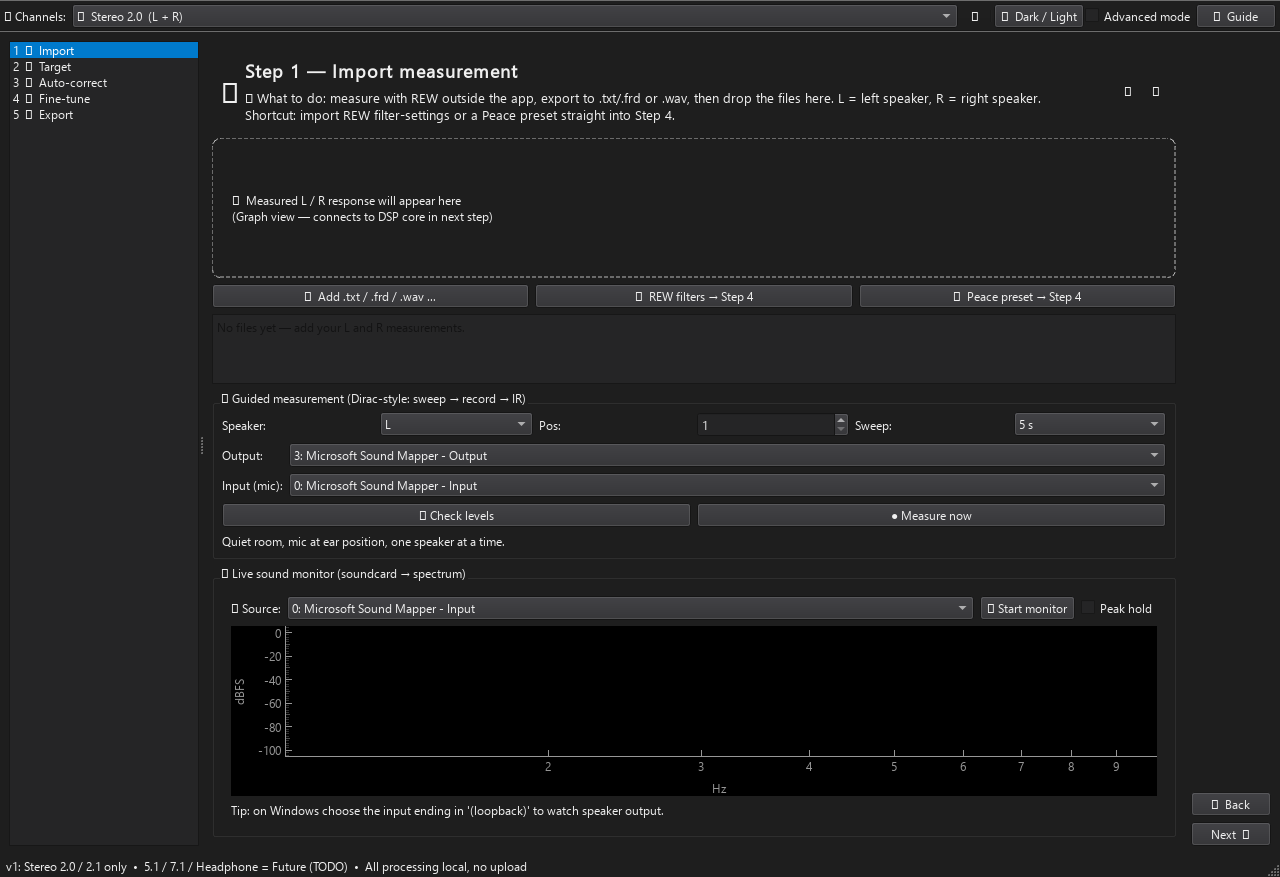
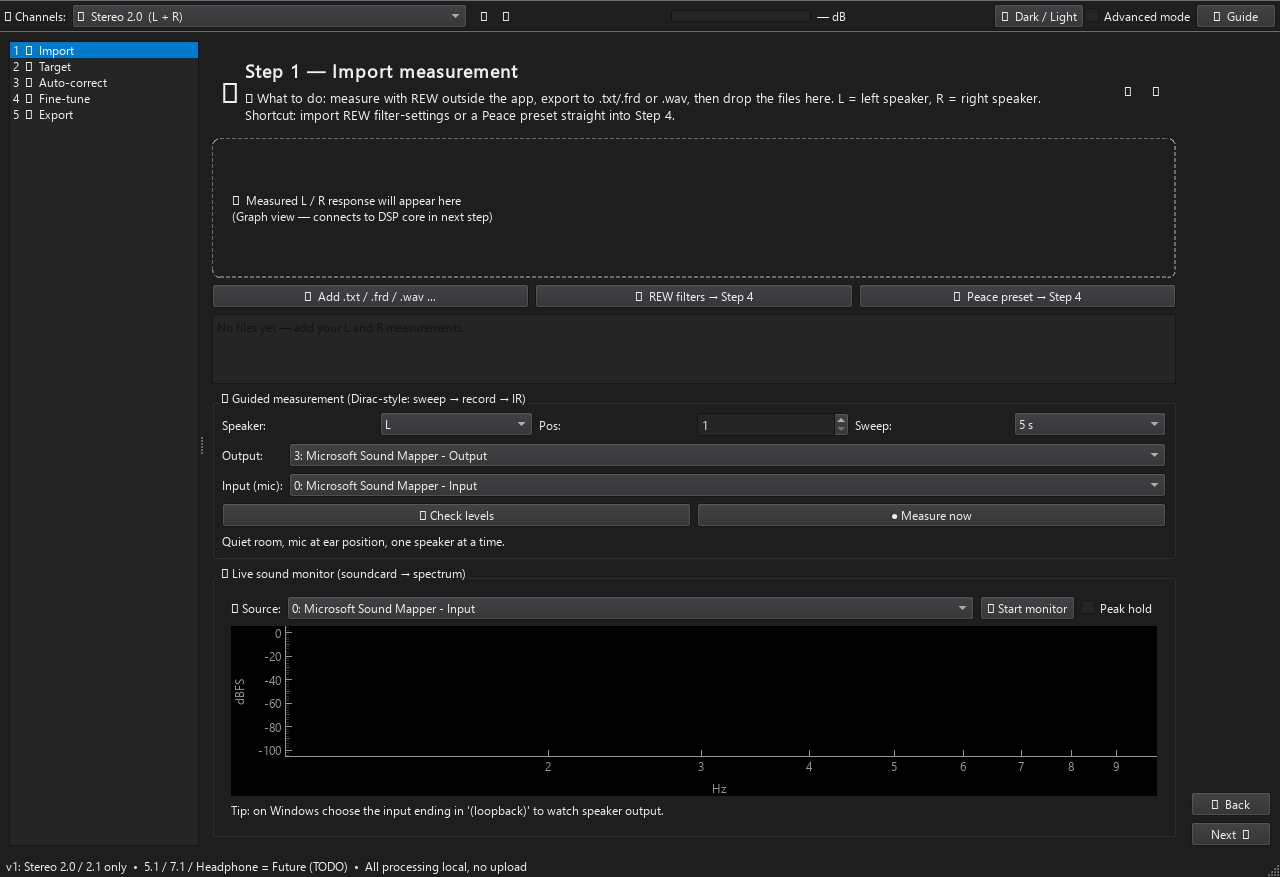
feat(meter): always-on Peace-style output meter in toolbar (session API, no mic)

Changed region(s): [[0.3438, 0.0, 0.75, 0.0308]]

diff --git a/src/harmo_dsp/io/meter.py b/src/harmo_dsp/io/meter.py
@@ -1,87 +1,91 @@
 """Output peak meter via Windows audio session API (no recording!).
 
-Uses IAudioMeterInformation on the default render endpoint: the OS hands us
-peak levels directly (like Peace's meters) — no microphone capture, no
-privacy issue, negligible CPU. Returns None when unavailable (headless CI).
+IAudioMeterInformation on the default render endpoint: OS hands us the
+peak directly (Peace-style meter) — no mic capture, negligible CPU.
+COM: the enumerator is cached process-lifetime; CoInitialize is NOT
+unbalanced against Qt (we keep it, we never CoUninitialize here).
+Returns None when unavailable (headless CI, non-Windows).
 """
 from __future__ import annotations
+
+_enum = None  # cached IMMDeviceEnumerator (process lifetime)
+
+_CLSID_MMDeviceEnumerator = "{BCDE0395-E52F-467C-8E3D-C4579291692E}"
+_IID_IMMDeviceEnumerator = "{A95664D2-9614-4F35-A746-DE513671B636}"
+_IID_IAudioMeterInformation = "{C02216F6-8C67-4B5B-9D00-D008E73E0064}"
+
+
+def _guid(s: str):
+    import uuid
+    return uuid.UUID(s)
+
+
+def _get_enum():
+    global _enum
+    if _enum is not None:
+        return _enum
+    import ctypes
+    ole32 = ctypes.OleDLL("ole32")
+    hr = ole32.CoInitializeEx(None, 0x2)  # APARTMENTFLAG; S_FALSE(1) ok if Qt did it
+    if hr not in (0, 1):
+        return None
+    B16 = ctypes.c_ubyte * 16
+
+    class _U(ctypes.Structure):
+        _fields_ = [("lpVtbl", ctypes.c_void_p)]
+
+    enum = ctypes.POINTER(_U)()
+    ok = ole32.CoCreateInstance(
+        B16.from_buffer_copy(_guid(_CLSID_MMDeviceEnumerator).bytes_le),
+        None, 23,
+        B16.from_buffer_copy(_guid(_IID_IMMDeviceEnumerator).bytes_le),
+        ctypes.byref(enum))
+    if ok != 0 or not enum:
+        return None
+    _enum = enum
+    return enum
 
 
 def get_output_peak() -> float | None:
     """Peak 0.0..1.0 of the default playback device, or None."""
     try:
         import ctypes
-        from ctypes import wintypes
-        import uuid
-    except Exception:
-        return None
-    try:
-        ole32 = ctypes.OleDLL("ole32")
-        if ole32.CoInitialize(None) not in (0, 1):
+        enum = _get_enum()
+        if enum is None:
+            return None
+        B16 = ctypes.c_ubyte * 16
+
+        class _U(ctypes.Structure):
+            _fields_ = [("lpVtbl", ctypes.c_void_p)]
+
+        vtbl = ctypes.cast(enum.contents.lpVtbl, ctypes.POINTER(ctypes.c_void_p))
+        # IMMDeviceEnumerator::GetDefaultAudioEndpoint(eRender=0, eConsole=0)
+        fn_def = ctypes.WINFUNCTYPE(ctypes.c_long, ctypes.c_void_p, ctypes.c_int,
+                                    ctypes.c_int, ctypes.POINTER(ctypes.c_void_p))(vtbl[4])
+        ep = ctypes.c_void_p()
+        if fn_def(enum, 0, 0, ctypes.byref(ep)) != 0 or not ep:
+            return None
+        vtbl2 = ctypes.cast(ep, ctypes.POINTER(ctypes.c_void_p))
+        # IMMDevice::Activate(IID_IAudioMeterInformation, CLSCTX_ALL, None, &m)
+        fn_act = ctypes.WINFUNCTYPE(ctypes.c_long, ctypes.c_void_p,
+                                    ctypes.POINTER(B16), ctypes.c_ulong,
+                                    ctypes.c_void_p, ctypes.POINTER(ctypes.c_void_p))(vtbl2[3])
+        iid = B16.from_buffer_copy(_guid(_IID_IAudioMeterInformation).bytes_le)
+        meter = ctypes.c_void_p()
+        if fn_act(ep, ctypes.byref(iid), 23, None, ctypes.byref(meter)) != 0 or not meter:
+            ctypes.WINFUNCTYPE(ctypes.c_ulong, ctypes.c_void_p)(vtbl2[2])(ep)  # Release ep
             return None
         try:
-            clsid = uuid.UUID("{BCDE0395-E52F-467C-8E3D-C4579291692E}")
-            iid_enum = uuid.UUID("{A95664D2-9614-4F35-A746-DE513671B636}")
-            iid_meter = uuid.UUID("{C02216F6-8C67-4B5B-9D00-D008E73E0064}")
-            B16 = ctypes.c_ubyte * 16
-
-            class _U(ctypes.Structure):
-                _fields_ = [("lpVtbl", ctypes.c_void_p)]
-
-            enum = ctypes.POINTER(_U)()
-            hr = ole32.CoCreateInstance(
-                B16.from_buffer_copy(clsid.bytes_le), None, 23,
-                B16.from_buffer_copy(iid_enum.bytes_le), ctypes.byref(enum))
-            if hr != 0 or not enum:
+            vtbl3 = ctypes.cast(meter, ctypes.POINTER(ctypes.c_void_p))
+            # IAudioMeterInformation::GetPeakValue(float*)
+            fn_peak = ctypes.WINFUNCTYPE(ctypes.c_long, ctypes.c_void_p,
+                                        ctypes.POINTER(ctypes.c_float))(vtbl3[3])
+            peak = ctypes.c_float()
+            if fn_peak(meter, ctypes.byref(peak)) != 0:
                 return None
-            try:
-                vtbl = ctypes.cast(enum.contents.lpVtbl,
-                                   ctypes.POINTER(ctypes.c_void_p))
-                fn = ctypes.WINFUNCTYPE(ctypes.c_long, ctypes.c_void_p,
-                                        ctypes.c_int, ctypes.c_int,
-                                        ctypes.POINTER(ctypes.c_void_p))(vtbl[4])
-                ep = ctypes.c_void_p()
-                if fn(enum, 0, 0, ctypes.byref(ep)) != 0 or not ep:
-                    return None
-                try:
-                    vtbl2 = ctypes.cast(ep, ctypes.POINTER(ctypes.c_void_p))
-                    fn2 = ctypes.WINFUNCTYPE(
-                        ctypes.c_long, ctypes.c_void_p,
-                        ctypes.POINTER(B16),
-                        ctypes.c_ulong, ctypes.c_void_p,
-                        ctypes.POINTER(ctypes.c_void_p))(vtbl2[3])
-                    iidm = B16.from_buffer_copy(iid_meter.bytes_le)
-                    meter = ctypes.c_void_p()
-                    if fn2(ep, ctypes.byref(iidm), 23, None,
-                           ctypes.byref(meter)) != 0 or not meter:
-                        return None
-                    try:
-                        vtbl3 = ctypes.cast(meter,
-                                            ctypes.POINTER(ctypes.c_void_p))
-                        fn3 = ctypes.WINFUNCTYPE(
-                            ctypes.c_long, ctypes.c_void_p,
-                            ctypes.POINTER(ctypes.c_float))(vtbl3[3])
-                        peak = ctypes.c_float()
-                        if fn3(meter, ctypes.byref(peak)) != 0:
-                            return None
-                        v = float(peak.value)
-                        return max(0.0, min(1.0, v))
-                    finally:
-                        rel = ctypes.WINFUNCTYPE(ctypes.c_ulong,
-                                                 ctypes.c_void_p)(vtbl3[2])
-                        rel(meter)
-                finally:
-                    rel = ctypes.WINFUNCTYPE(ctypes.c_ulong,
-                                             ctypes.c_void_p)(vtbl2[2])
-                    rel(ep)
-            finally:
-                rel = ctypes.WINFUNCTYPE(ctypes.c_ulong,
-                                         ctypes.c_void_p)(
-                    ctypes.cast(enum.contents.lpVtbl,
-                                ctypes.POINTER(ctypes.c_void_p))[2])
-                rel(enum)
+            return max(0.0, min(1.0, float(peak.value)))
         finally:
-            ole32.CoUninitialize()
+            ctypes.WINFUNCTYPE(ctypes.c_ulong, ctypes.c_void_p)(vtbl3[2])(meter)
+            ctypes.WINFUNCTYPE(ctypes.c_ulong, ctypes.c_void_p)(vtbl2[2])(ep)
     except Exception:
         return None
-    return None

diff --git a/src/harmo_dsp/ui/monitor.py b/src/harmo_dsp/ui/monitor.py
@@ -48,7 +48,8 @@ class SpectrumEngine:
 
 try:
     from PySide6.QtWidgets import (QWidget, QVBoxLayout, QHBoxLayout, QLabel,
-                                   QPushButton, QComboBox, QCheckBox)
+                                   QPushButton, QComboBox, QCheckBox,
+                                   QProgressBar)
     from PySide6.QtCore import QTimer, Qt
     import pyqtgraph as pg
 
@@ -159,6 +160,65 @@ try:
             except Exception:
                 pass
 
+    def peak_to_db(peak: float | None) -> float | None:
+        """Pure: OS peak 0..1 -> dBFS (None for silence/unavailable)."""
+        if peak is None or peak <= 0.0:
+            return None
+        import math
+        return 20.0 * math.log10(min(max(peak, 1e-9), 1.0))
+
+    class OutputMeter(QWidget):
+        """Always-on Peace-style output meter (no mic, OS session API).
+
+        Unavailable backend => dimmed bar + hint, never a crash
+        (service/headless sessions have no audio endpoint)."""
+
+        def __init__(self, parent=None):
+            super().__init__(parent)
+            lay = QHBoxLayout(self)
+            lay.setContentsMargins(6, 0, 6, 0)
+            icon = QLabel("🔊")
+            icon.setToolTip("Windows output level (all apps). Red = near clip.")
+            lay.addWidget(icon)
+            self.bar = QProgressBar()
+            self.bar.setRange(-600, 0)  # x10 dB: -60.0..0.0
+            self.bar.setValue(-600)
+            self.bar.setTextVisible(False)
+            self.bar.setFixedWidth(140)
+            self.bar.setFixedHeight(12)
+            lay.addWidget(self.bar)
+            self.db_label = QLabel("— dB")
+            self.db_label.setMinimumWidth(52)
+            lay.addWidget(self.db_label)
+            self._clip_until_ms = 0
+            self._available_seen = False
+            self.timer = QTimer(self)
+            self.timer.setInterval(120)
+            self.timer.timeout.connect(self._tick)
+            self.timer.start()
+            self.setToolTip("Output peak of the default playback device (like Peace's meter).")
+
+        def _tick(self):
+            import time
+            from ..io.meter import get_output_peak
+            db = peak_to_db(get_output_peak())
+            if db is None:
+                if not self._available_seen:
+                    self.db_label.setText("— dB")
+                    self.bar.setValue(-600)
+                return
+            self._available_seen = True
+            self.db_label.setText(f"{db:.1f} dB")
+            self.bar.setValue(int(max(-600.0, db * 10.0)))
+            now = time.monotonic() * 1000.0
+            if db > -0.1:
+                self._clip_until_ms = now + 2000.0
+            color = "#ff4d4d" if now < self._clip_until_ms else (
+                "#4da6ff" if db > -30 else "#3aa06a")
+            self.bar.setStyleSheet(
+                f"QProgressBar::chunk {{ background: {color}; }}")
+
 except ImportError:  # pyqtgraph/PySide missing (docs builds etc.)
     LiveSpectrum = None  # type: ignore
     PredictedCurve = None  # type: ignore
+    OutputMeter = None  # type: ignore

diff --git a/tests/test_output_meter.py b/tests/test_output_meter.py
@@ -1,0 +1,44 @@
+"""Output meter tests (pure math + offscreen widget, no audio needed)."""
+import os
+
+os.environ.setdefault("QT_QPA_PLATFORM", "offscreen")
+
+
+def test_peak_to_db_math():
+    from harmo_dsp.ui.monitor import peak_to_db
+    assert peak_to_db(None) is None
+    assert peak_to_db(0.0) is None
+    assert abs(peak_to_db(1.0)) < 0.01
+    assert abs(peak_to_db(0.5) - (-6.02)) < 0.01
+
+
+def test_output_meter_none_and_fake_peak(monkeypatch):
+    from PySide6.QtWidgets import QApplication
+    from harmo_dsp.ui.monitor import OutputMeter
+    from harmo_dsp.io import meter as M
+
+    QApplication.instance() or QApplication([])
+    m = OutputMeter()
+    monkeypatch.setattr(M, "get_output_peak", lambda: None)
+    m._tick()
+    assert m.db_label.text() == "— dB"  # unavailable => dim, no crash
+    monkeypatch.setattr(M, "get_output_peak", lambda: 0.5)
+    m._tick()
+    assert m.db_label.text() == "-6.0 dB"
+    assert m.bar.value() == -60
+    assert m._available_seen
+    monkeypatch.setattr(M, "get_output_peak", lambda: 1.0)  # clip
+    m._tick()
+    assert m.db_label.text() == "0.0 dB"
+    m.close()
+
+
+def test_meter_in_main_toolbar():
+    from PySide6.QtWidgets import QApplication
+    from harmo_dsp.ui.main_window import MainWindow
+
+    QApplication.instance() or QApplication([])
+    w = MainWindow()
+    assert hasattr(w, "out_meter")
+    w.out_meter._tick()  # real backend call: None on headless, never crash
+    w.close()

diff --git a/src/harmo_dsp/ui/main_window.py b/src/harmo_dsp/ui/main_window.py
@@ -39,6 +39,10 @@ class MainWindow(QMainWindow):
         self.channels = ChannelSelector()
         self.channels.changed.connect(self._mode_note)
         bar.addWidget(self.channels)
+        from .monitor import OutputMeter
+        if OutputMeter is not None:
+            self.out_meter = OutputMeter()
+            bar.addWidget(self.out_meter)
         bar.addSeparator()
         self.btn_theme = QPushButton("🌗  Dark / Light")
         self.btn_theme.setToolTip("Switch between dark and light theme")
